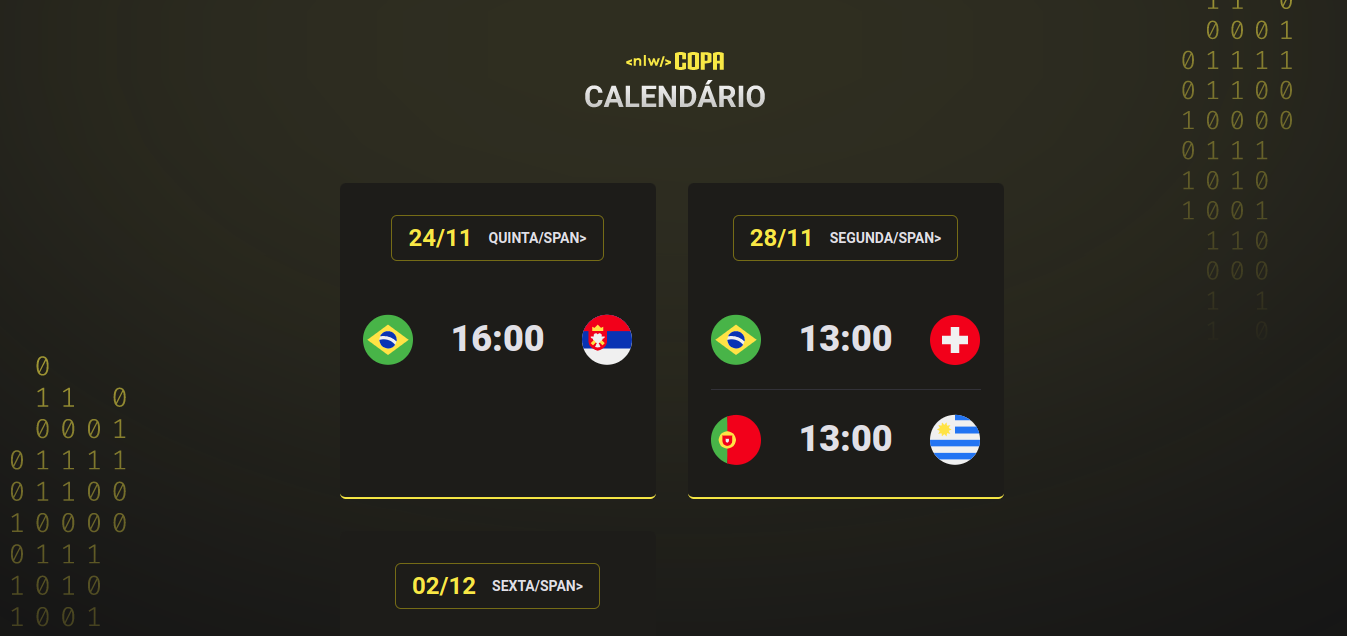
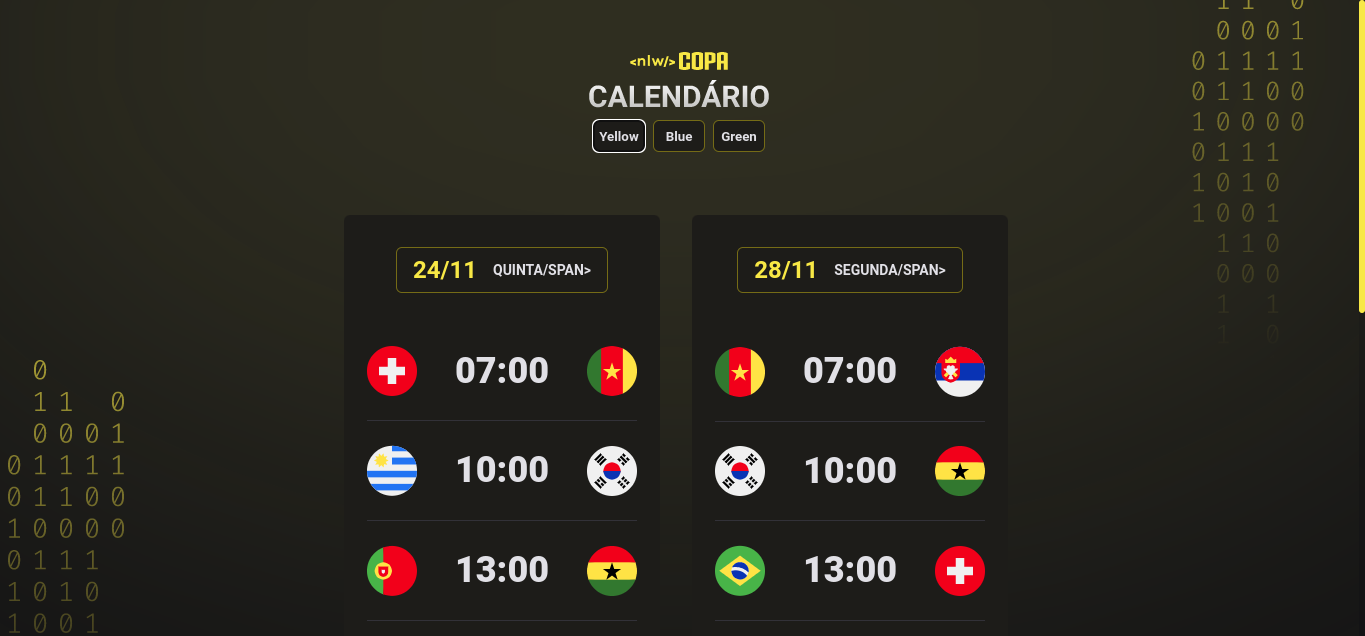
changes README

diff --git a/README.md b/README.md
@@ -2,10 +2,24 @@
 
 Projeto criado durante a NLW Copa do Mundo, realizada pela [Rocketseat](https://www.rocketseat.com.br/), onde foi criado um calendários de jogos da Copa do Mundo de 2022.
 
+-> [Layout Figma](https://www.figma.com/community/file/1169028052212317700)
+
 ![Preview](./assets/preview.png)
+
+---
 
 ## Ferramentas
 
 - HTML
 - CSS
 - Javascript
+
+---
+
+## Pontos principais
+
+- Possibilidade de mudança de cores com os botões da header;
+
+- Animações de hover ao passar sobre os elementos dos cartões;
+
+- Cartões criados utilizando Javascript, funções ṕara criação de cartões e jogos com dois times e horário.
